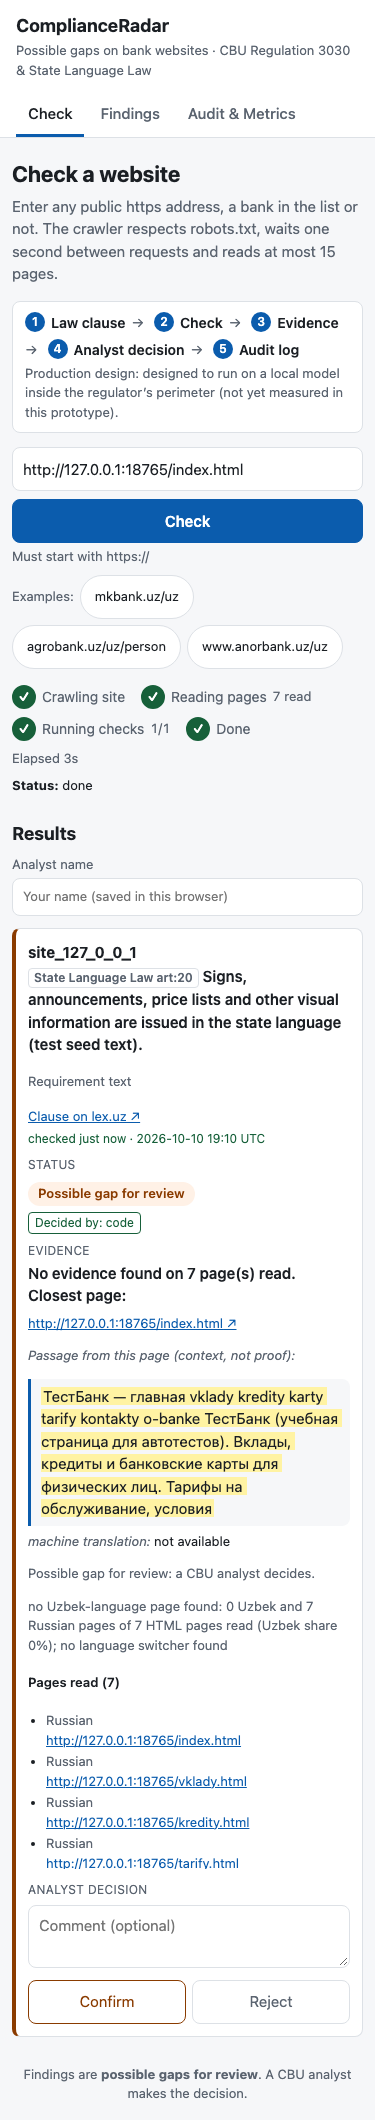
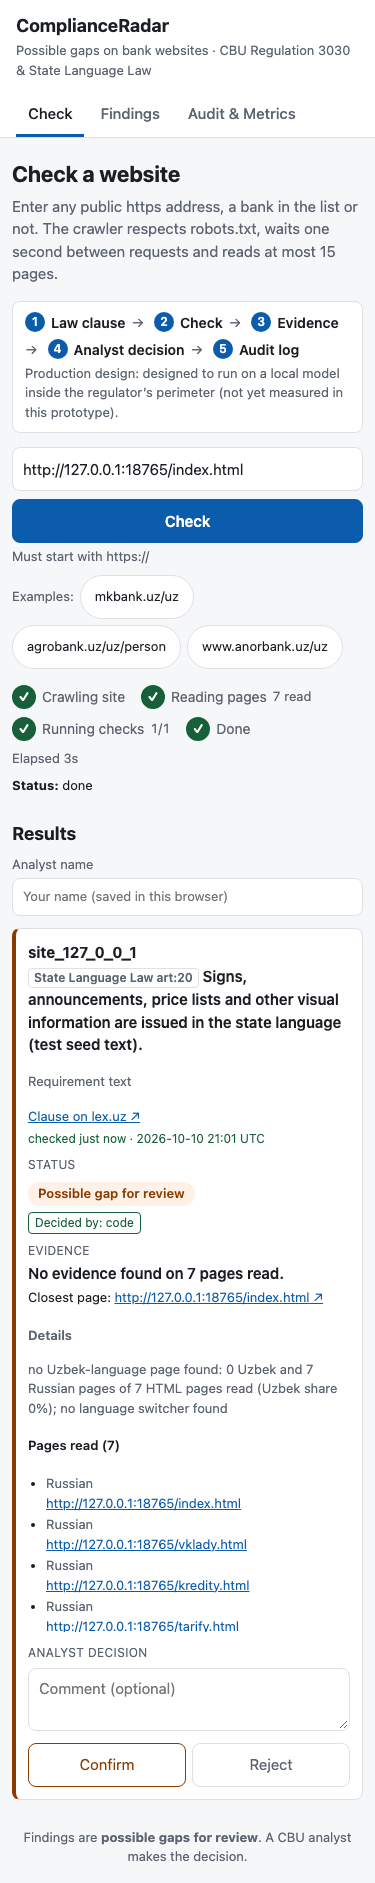
feat(ui): short human reason per card; passages and technical text out of the way
not_checkable cards show only the short reason (no "Passage found" block or
its translation); possible gap cards show "No evidence found on N pages read."
and the closest page only (no context block); technical text is in a collapsed
"Details"; "Pages read (N)" is collapsed and lists language + URL. ok cards
keep the verbatim highlighted quote, page URL and machine translation. e2e
(375/768/1280) seeds one ok and one not_checkable stored finding to test both;
screenshots refreshed. Stored findings unchanged; no LLM calls.

Changed region(s): [[0.0293, 0.0, 0.968, 1.0], [0.8507, 0.0, 0.9387, 0.0308], [0.7333, 0.5852, 0.7627, 0.616]]

diff --git a/frontend/e2e/app.spec.js b/frontend/e2e/app.spec.js
@@ -63,16 +63,52 @@ test("a check reaches results with stepper, badge and pages read", async ({ page
   await expect(results).toContainText("Possible gap for review");
   await expect(results.getByTestId("decided-by")).toHaveText("Decided by: code");
   const gap = results.getByTestId("gap-evidence");
-  await expect(gap).toContainText("No evidence found on 7 page(s) read. Closest page:");
-  await expect(gap.locator("blockquote")).toContainText("ТестБанк");
-  await expect(gap.getByTestId("pages-read")).toContainText("Pages read (7)");
-  await expect(gap.locator("details li")).toHaveCount(7);
-  await expect(gap.locator("details li").first()).toContainText("Russian");
+  // A gap shows only "No evidence found on N pages read." and the closest page: no passage.
+  await expect(gap.locator(".gap-lead")).toHaveText("No evidence found on 7 pages read.");
+  await expect(gap).toContainText("Closest page:");
+  await expect(gap.locator("blockquote")).toHaveCount(0);
+  await expect(gap).not.toContainText("Context from this page");
+  // Pages read: collapsed by default, language + URL when expanded.
+  const pagesRead = gap.getByTestId("pages-read");
+  await expect(pagesRead).toContainText("Pages read (7)");
+  await expect(pagesRead).not.toHaveAttribute("open", "");
+  await expect(pagesRead.locator("li").first()).toBeHidden();
+  await pagesRead.locator("summary").click();
+  await expect(pagesRead.locator("li")).toHaveCount(7);
+  await expect(pagesRead.locator("li").first()).toContainText("Russian");
+  // Technical text is in a collapsed "Details" section.
+  const details = gap.getByTestId("reason-details");
+  await expect(details).not.toHaveAttribute("open", "");
+  await details.locator("summary").click();
+  await expect(details).toContainText("no Uzbek-language page found");
   await expect(page.locator("body")).not.toContainText(/violation/i);
-  await expect(results).toContainText("machine translation");
   await expect(results).toContainText("checked just now");
   await noHorizontalScroll(page);
   await shot(page, testInfo, "check-results");
+});
+
+test("stored cards: ok keeps its quote, not checkable shows only a short reason", async ({ page }) => {
+  await page.goto("/#/findings");
+  const ok = page.getByTestId("finding-row").filter({ hasText: "e2e_ok_bank" });
+  const okEv = ok.getByTestId("ok-evidence");
+  await expect(okEv.locator("blockquote mark")).toHaveText("Davlat tilida e'lonlar va narxlar ro'yxati joylashtirilgan.");
+  await expect(okEv).toContainText("machine translation: Announcements and price lists are published in the state language.");
+  await expect(okEv.locator("a.pagelink")).toHaveAttribute("href", "https://e2e_ok_bank.example/p0");
+  await expect(okEv.locator(".reason-short")).toHaveText("Uzbek version present (5 Uzbek pages of 6; completeness not assessed).");
+
+  const nc = page.getByTestId("finding-row").filter({ hasText: "e2e_nc_bank" });
+  const ncEv = nc.getByTestId("nc-evidence");
+  await expect(ncEv.getByTestId("nc-reason")).toHaveText("LLM did not confirm it; manual review needed.");
+  await expect(ncEv.locator("blockquote")).toHaveCount(0);
+  await expect(nc).not.toContainText("This stored passage must not be shown");
+  await expect(nc).not.toContainText("Passage found");
+  await expect(nc).not.toContainText("machine translation of the hidden passage");
+  const details = ncEv.getByTestId("reason-details");
+  await expect(details.locator("p")).toBeHidden();
+  await details.locator("summary").click();
+  await expect(details).toContainText("Re-checked on 2026-10-10");
+  await expect(details).toContainText("keywords from hints: e2e, seed");
+  await expect(ncEv.getByTestId("nc-reason")).not.toContainText("re-checked");
 });
 
 test("decision persists after reload and appears in the audit log", async ({ page, request }, testInfo) => {

diff --git a/frontend/src/components/Findings.jsx b/frontend/src/components/Findings.jsx
@@ -173,45 +173,47 @@ function PageLink({ url, children }) {
   );
 }
 
+function Details({ f }) {
+  if (!f.reason_details) return null;
+  return (
+    <details className="tech" data-testid="reason-details">
+      <summary>Details</summary>
+      <p>{f.reason_details}</p>
+    </details>
+  );
+}
+
 function Evidence({ f }) {
+  const short = f.reason_short || reasonHeadline(f.reason);
   if (f.status === "possible_gap") {
-    // An absence cannot be quoted: any passage only shows the closest page that was read.
+    // An absence cannot be quoted: no passage is shown, only where the crawler looked.
     return (
       <div className="evidence" data-testid="gap-evidence">
-        <p className="gap-lead">
-          No evidence found on {f.pages_read ?? "no data"} page(s) read. Closest page:
-        </p>
-        <PageLink url={f.evidence_url} />
-        {f.evidence_quote && <Quote f={f} label="Passage from this page (context, not proof)" />}
-        {f.context_quote && (
-          <>
-            <p className="mt-label small">Context from this page (not evidence):</p>
-            <blockquote className="quote context" lang="uz"
-                        data-testid="context-quote">{f.context_quote}</blockquote>
-          </>
+        <p className="gap-lead">{short}</p>
+        {f.evidence_url && (
+          <p className="small closest">Closest page: <PageLink url={f.evidence_url} /></p>
         )}
-        <p className="muted small">Possible gap for review: a CBU analyst decides.</p>
-        {f.reason && <p className="reason">{f.reason}</p>}
-        <PagesRead f={f} open />
+        <Details f={f} />
+        <PagesRead f={f} />
       </div>
     );
   }
   if (f.status === "not_checkable") {
+    // Only the plain reason: any stored passage is not decisive and is not shown.
     return (
-      <div className="evidence">
-        <p className="nc-lead" data-testid="nc-reason">{reasonHeadline(f.reason)}</p>
-        {f.reason && <p className="reason">{f.reason}</p>}
-        {f.evidence_quote && <Quote f={f} label="Passage found (not decisive)" />}
-        <PageLink url={f.evidence_url} />
+      <div className="evidence" data-testid="nc-evidence">
+        <p className="nc-lead" data-testid="nc-reason">{short}</p>
+        <Details f={f} />
         <PagesRead f={f} />
       </div>
     );
   }
   return (
-    <div className="evidence">
+    <div className="evidence" data-testid="ok-evidence">
       {f.evidence_quote ? <Quote f={f} /> : <p className="muted">No verified quote.</p>}
       <PageLink url={f.evidence_url} />
-      {f.reason && <p className="reason">{f.reason}</p>}
+      <p className="reason-short">{short}</p>
+      <Details f={f} />
       <PagesRead f={f} />
     </div>
   );

diff --git a/frontend/src/styles.css b/frontend/src/styles.css
@@ -254,3 +254,8 @@ input[aria-invalid="true"] { border-color: var(--err-fg); }
 .failures { margin: 0 0 8px; padding-left: 20px; max-width: 90ch; }
 .failures li { margin: 4px 0; }
 .decided-src { font-weight: 400; color: var(--muted); }
+.reason-short { font-size: 14px; margin: 6px 0; }
+.closest { margin: 0 0 6px; }
+.tech { font-size: 13px; color: var(--muted); }
+.tech summary { cursor: pointer; min-height: 44px; display: flex; align-items: center; font-weight: 600; }
+.tech p { margin: 2px 0 6px; overflow-wrap: anywhere; }

diff --git a/frontend/e2e/seed.py b/frontend/e2e/seed.py
@@ -14,7 +14,7 @@ ROOT = Path(__file__).resolve().parents[2]
 sys.path.insert(0, str(ROOT))
 
 from backend import db  # noqa: E402
-from backend.models import Requirement  # noqa: E402
+from backend.models import Finding, Page, Requirement, Run  # noqa: E402
 
 path = Path(os.environ["DB_PATH"])
 path.parent.mkdir(parents=True, exist_ok=True)
@@ -30,4 +30,35 @@ with db.connect(path) as conn:
                 "in the state language (test seed text).",
         source_doc="law_state_language", source_clause_id=clause["clause_id"],
         source_url=clause["url"], check_type="uz_version", approved=True))
+    # Two stored ("pre-computed") findings for the UI tests: an ok finding with a verified
+    # quote, and a not_checkable one whose stored passage must NOT be rendered.
+    from datetime import datetime, timezone
+    when = datetime(2026, 10, 10, 12, tzinfo=timezone.utc)
+    seeds = [
+        ("e2e_ok_bank", "ok", "Davlat tilida e'lonlar va narxlar ro'yxati joylashtirilgan.",
+         "Announcements and price lists are published in the state language.",
+         "Uzbek version present (5 Uzbek pages of 6; completeness not assessed): 5 Uzbek and "
+         "1 Russian pages of 6 HTML pages read (Uzbek share 83%); language switcher found"),
+        ("e2e_nc_bank", "not_checkable", "This stored passage must not be shown in the card.",
+         "machine translation of the hidden passage",
+         "re-checked 2026-10-10 (0 page(s) re-fetched for missing link data): Code found "
+         "related passages on 1 candidate page(s) but the LLM did not confirm the requirement "
+         "there; a possible gap needs code-level evidence of absence, so this is left for "
+         "review. Quote: the closest related passage. (keywords from hints: e2e, seed)"),
+    ]
+    for bank, status, quote, quote_en, reason in seeds:
+        run = Run(id=f"seed-{bank}", bank_id=bank, start_url=f"https://{bank}.example/",
+                  source="precomputed", status="done", crawl_status="ok", pages_read=6,
+                  started_at=when, finished_at=when)
+        db.upsert_run(conn, run)
+        urls = [f"https://{bank}.example/p{i}" for i in range(6)]
+        page = Page(bank_id=bank, url=urls[0], language="uz_latn", source_type="html",
+                    text=quote + " " + "Bank xizmatlari haqida. " * 20)
+        db.upsert_page(conn, page)
+        db.upsert_finding(conn, Finding(
+            id=f"{run.id}:req:law_state_language:art:20", bank_id=bank,
+            requirement_id="req:law_state_language:art:20", status=status, run_id=run.id,
+            evidence_url=urls[0], evidence_quote=quote, evidence_quote_en=quote_en,
+            reason=reason, pages_read=6, urls_read=urls, created_at=when,
+            decided_by="llm_assisted" if status == "not_checkable" else "code"))
 print(f"seeded {path}")
